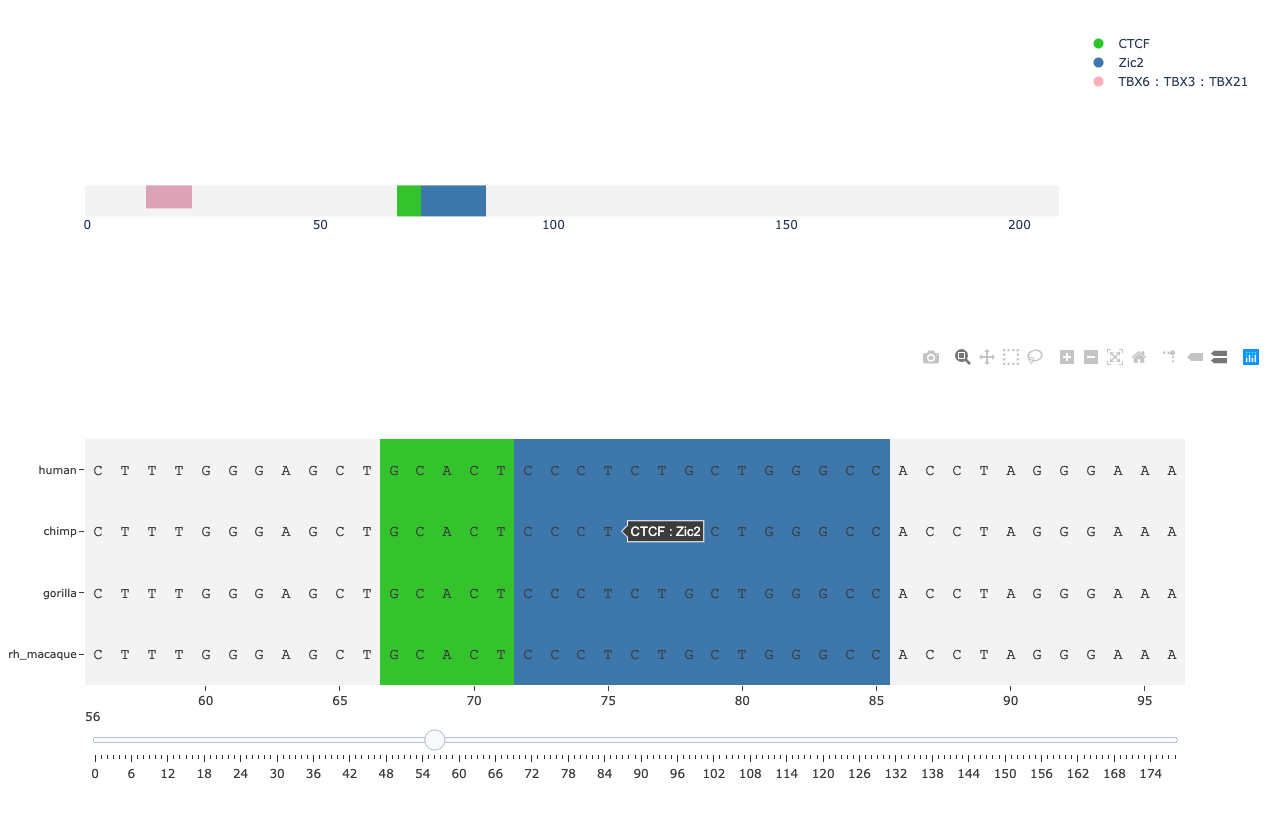
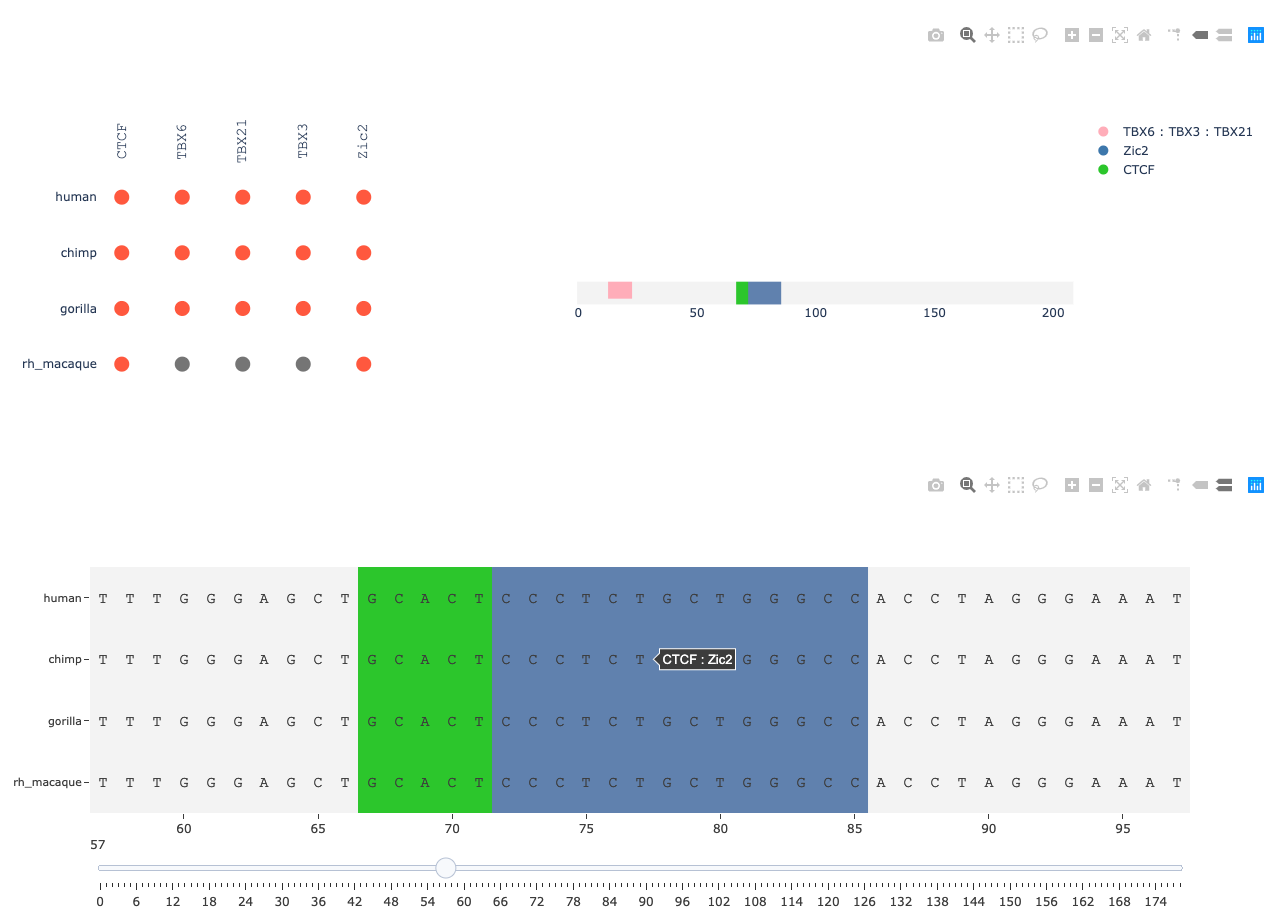
updated example images

diff --git a/motif_vis.py b/motif_vis.py
@@ -304,7 +304,7 @@ body = html.Div(dbc.Row([
 				dbc.Col(dropdown, width=4),
 				dbc.Col(tree, width=3),
 				dbc.Col(heatmap_legend, width=5)
-], no_gutters=True))
+]))
 
 graph = html.Div(dbc.Row([
 				dbc.Col(description, width=4),
